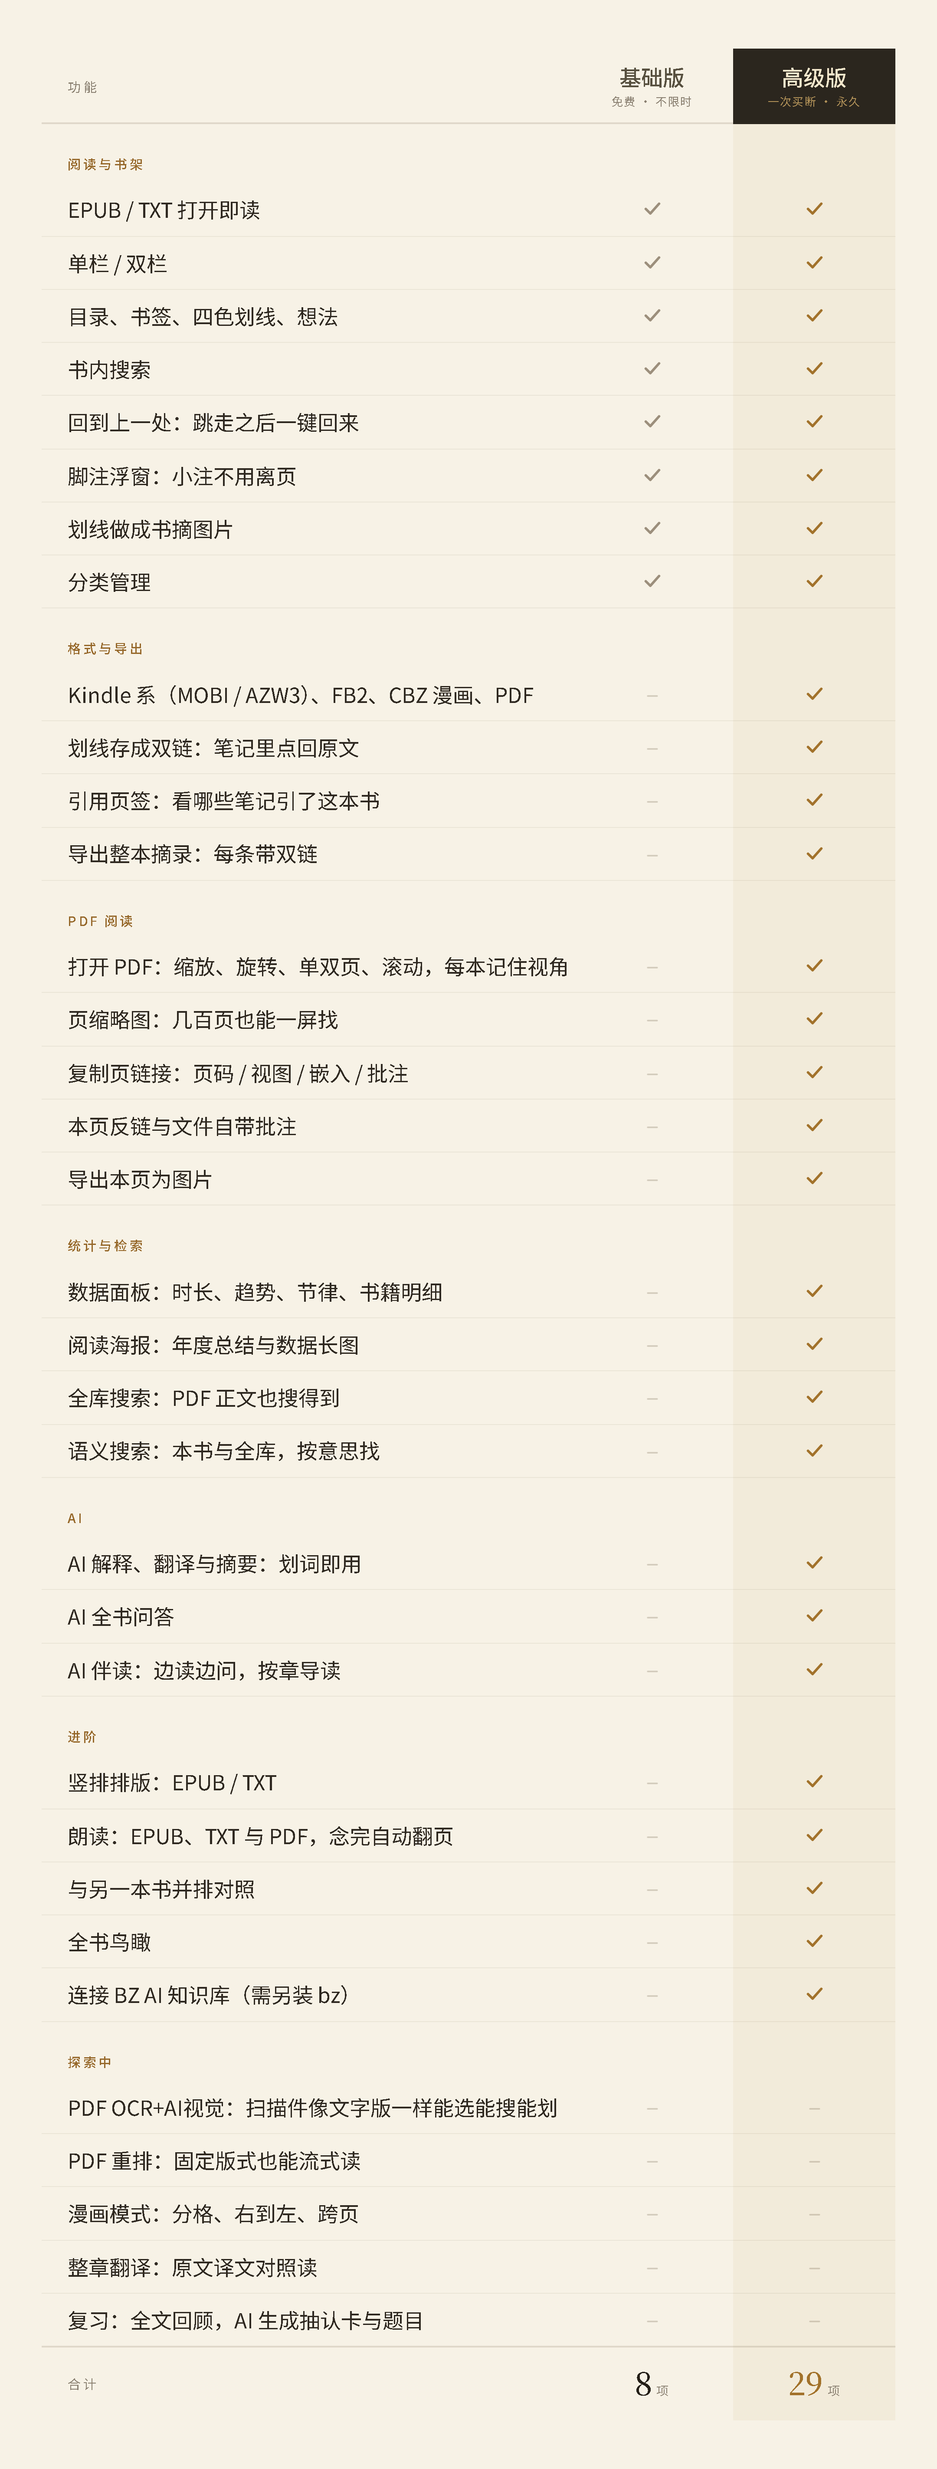
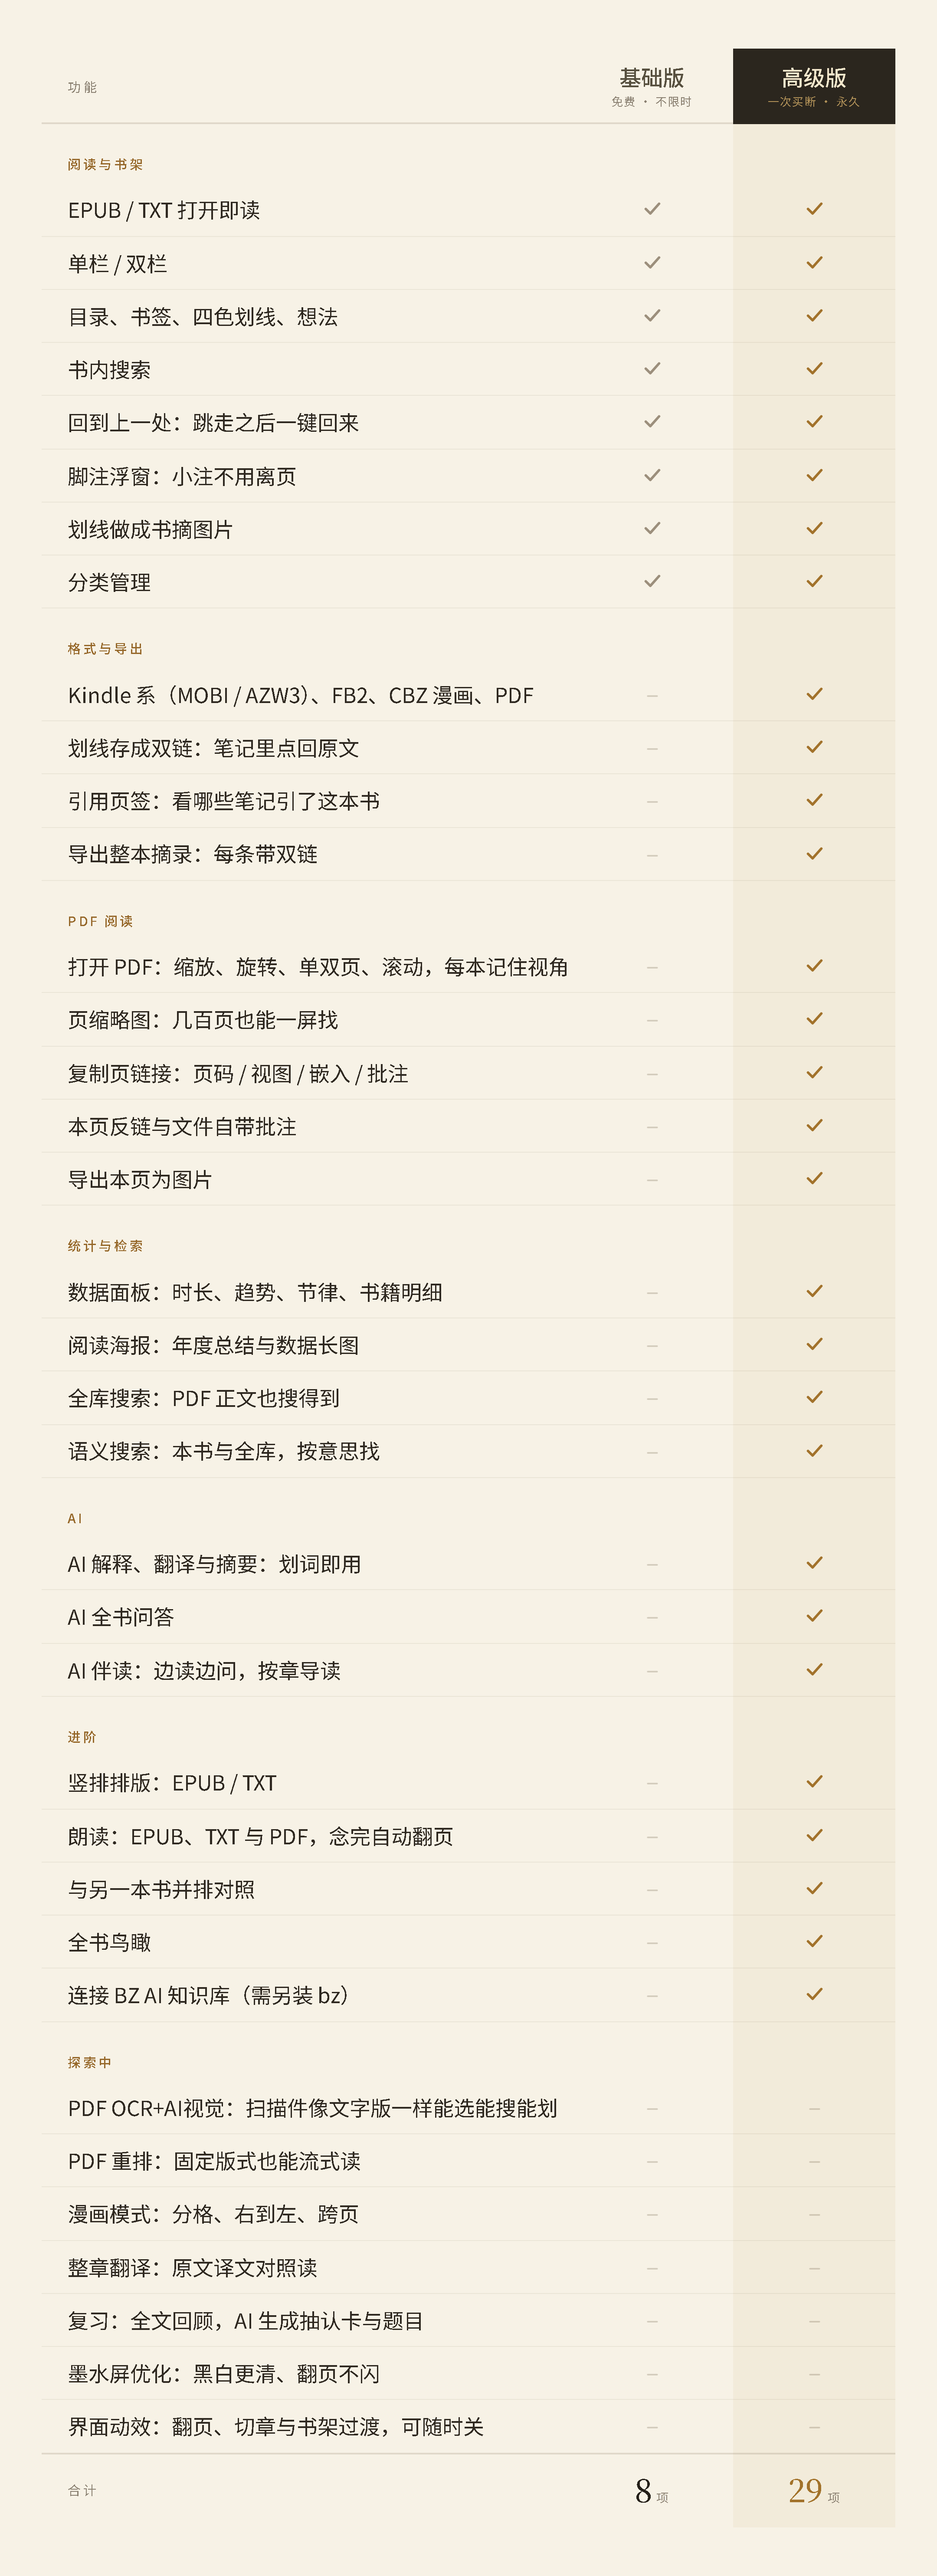
feat(plan): 探索中新增墨水屏优化与界面动效
两版都不打勾、不挂能力位，合计仍是 8 / 29，总行数 34 → 36。同步八语言行名、README 八份功能表、商店稿正在做清单与对照长图；繁中检测器去掉简繁同形的「可」，否则「可随时关」会被误判。

diff --git a/tests/plan-explore.test.ts b/tests/plan-explore.test.ts
@@ -4,24 +4,26 @@ import { LOCALES, setLocale } from '../src/i18n';
 import { PLAN_GROUP_TEXT_PACK, PLAN_TEXT_PACK, planGroupLabel, planGroupNameZh, planLabel, planNameZh } from '../src/i18n/plan';
 
 /**
- * 对照表 · 探索中段（2026-11-11）。
+ * 对照表 · 探索中段（2026-11-11，2026-11-12 增至七项）。
  *
- * 五项都还没实现、还在开发中：PDF OCR+AI 视觉把扫描件做到「像文字版」的
+ * 七项都还没实现、还在开发中：PDF OCR+AI 视觉把扫描件做到「像文字版」的
  * 选中 / 搜索 / 划线体验；PDF 重排把固定版式变成流式；漫画模式补上分格 /
  * 右到左 / 跨页；整章翻译做原文译文对照；复习支持全文回顾、AI 抽认卡与
- * AI 出题。
+ * AI 出题；墨水屏优化让黑白更清、翻页不闪；界面动效给翻页、切章与书架
+ * 过渡，且可随时关。
  *
  * 写进表里是为了让「高级版能力只增不减」有落点，但不能假装已经能用：
- *   · 五行两版都不打勾（free / pro 都是 no），也不挂能力位；
+ *   · 七行两版都不打勾（free / pro 都是 no），也不挂能力位；
  *   · 段名「探索中」说明状态，行里不再加「开发中」小字；
  *   · 不进合计——图上基础版 8 项、高级版 29 项保持不变。
  */
 
 const CJK = /[\u4e00-\u9fff]/;
 const LATIN = ['en', 'de', 'fr', 'es', 'pt'] as const;
-/** 简繁必然异形的字：繁中行名里出现任何一个就说明抄了简体 */
-const SIMPLIFIED = /[选线图复认可与题扫样页读译对]/;
-const EXPLORE_ROWS = ['pdfOcr', 'pdfReflow', 'manga', 'transChapter', 'review'] as const;
+/** 简繁必然异形的字：繁中行名里出现任何一个就说明抄了简体。
+    「可」简繁同形，列进来会把「可随时关」这种正确繁体判成错——检测器只收异形字。 */
+const SIMPLIFIED = /[选线图复认与题扫样页读译对]/;
+const EXPLORE_ROWS = ['pdfOcr', 'pdfReflow', 'manga', 'transChapter', 'review', 'eink', 'motion'] as const;
 
 afterEach(() => setLocale('zh'));
 
@@ -30,7 +32,7 @@ function row(key: string) {
 }
 
 describe('对照表 · 探索中段的位置与内容', () => {
-  it('放在最末一段，只收五行，顺序固定', () => {
+  it('放在最末一段，只收七行，顺序固定', () => {
     const last = PLAN_GROUPS.at(-1);
     expect(last?.key).toBe('explore');
     expect(last?.rows).toEqual([...EXPLORE_ROWS]);
@@ -46,12 +48,14 @@ describe('对照表 · 探索中段的位置与内容', () => {
     }
   });
 
-  it('中文行名就是图上的那五行', () => {
+  it('中文行名就是图上的那七行', () => {
     expect(planNameZh('pdfOcr')).toBe('PDF OCR+AI视觉：扫描件像文字版一样能选能搜能划');
     expect(planNameZh('pdfReflow')).toBe('PDF 重排：固定版式也能流式读');
     expect(planNameZh('manga')).toBe('漫画模式：分格、右到左、跨页');
     expect(planNameZh('transChapter')).toBe('整章翻译：原文译文对照读');
     expect(planNameZh('review')).toBe('复习：全文回顾，AI 生成抽认卡与题目');
+    expect(planNameZh('eink')).toBe('墨水屏优化：黑白更清、翻页不闪');
+    expect(planNameZh('motion')).toBe('界面动效：翻页、切章与书架过渡，可随时关');
   });
 
   it('段名叫「探索中」，且不和任何行名撞字', () => {
@@ -60,12 +64,12 @@ describe('对照表 · 探索中段的位置与内容', () => {
     expect(names.has('探索中')).toBe(false);
   });
 
-  it('探索行不计入已实现项：基础版 8、高级版 29、共 34 行的口径不变', () => {
-    /* 图上的合计只看已实现：高级版 29 个勾、基础版 8 个勾。探索五行加进
-       来之后，行数变 34，但两个合计数字一个都不能动。 */
+  it('探索行不计入已实现项：基础版 8、高级版 29、共 36 行的口径不变', () => {
+    /* 图上的合计只看已实现：高级版 29 个勾、基础版 8 个勾。探索七行加进
+       来之后，行数变 36，但两个合计数字一个都不能动。 */
     expect(PLAN_TABLE.filter((r) => r.pro === 'yes')).toHaveLength(29);
     expect(PLAN_TABLE.filter((r) => r.free === 'yes')).toHaveLength(8);
-    expect(PLAN_TABLE).toHaveLength(34);
+    expect(PLAN_TABLE).toHaveLength(36);
   });
 
   it('知识库仍是正式段的最后一行，探索段接在它后面', () => {
@@ -76,7 +80,7 @@ describe('对照表 · 探索中段的位置与内容', () => {
 });
 
 describe('对照表 · 探索中段八种语言', () => {
-  it('段名与五行都填了八种语言，没有空串', () => {
+  it('段名与七行都填了八种语言，没有空串', () => {
     for (const l of LOCALES) {
       expect(String(PLAN_GROUP_TEXT_PACK.explore[l]).trim().length, l).toBeGreaterThan(0);
       for (const key of EXPLORE_ROWS) {
@@ -108,6 +112,8 @@ describe('对照表 · 探索中段八种语言', () => {
     expect(planLabel('manga')).toContain('Manga');
     expect(planLabel('transChapter')).toContain('translation');
     expect(planLabel('review')).toContain('Review');
+    expect(planLabel('eink')).toContain('E Ink');
+    expect(planLabel('motion')).toContain('motion');
     setLocale('zh');
     expect(planGroupLabel('explore')).toBe('探索中');
   });

diff --git a/src/data/entitlement.ts b/src/data/entitlement.ts
@@ -780,19 +780,23 @@ export const PLAN_TABLE: PlanRow[] = [
      全书问答的前置步骤，拆成两行只让用户以为要买两次；建索引被拦时高亮
      的是「AI 全书问答」那一行（见 shell/actions.ts 的 indexCap）。 */
   row('kb', 'no', 'yes', 'kb'),
-  /* ── 探索中（2026-11-11） ──
-   * 五项都还没实现，只占表尾，别当已上线卖点用：两版都不打勾（free / pro
+  /* ── 探索中（2026-11-11，2026-11-12 增至七项） ──
+   * 七项都还没实现，只占表尾，别当已上线卖点用：两版都不打勾（free / pro
    * 都是 no）、不挂能力位，状态由段名「探索中」说，行里不加小字。
    * 它们不进合计——图上的基础版 8 项、高级版 29 项保持不变。
    *
    * OCR 与 AI 视觉是两条技术路线、同一个目标：让扫描件拥有文字版的选中 /
    * 搜索 / 划线体验；PDF 重排把固定版式变成流式；漫画模式补上分格 / 右到左 /
-   * 跨页；整章翻译做原文译文对照；复习是全文回顾 + AI 抽认卡 + AI 出题。 */
+   * 跨页；整章翻译做原文译文对照；复习是全文回顾 + AI 抽认卡 + AI 出题；
+   * 墨水屏优化拉高黑白对比、翻页不闪；界面动效给翻页、切章与书架切换加
+   * 过渡，且随时可关。 */
   row('pdfOcr', 'no', 'no'),
   row('pdfReflow', 'no', 'no'),
   row('manga', 'no', 'no'),
   row('transChapter', 'no', 'no'),
   row('review', 'no', 'no'),
+  row('eink', 'no', 'no'),
+  row('motion', 'no', 'no'),
 ];
 
 /**
@@ -802,7 +806,7 @@ export const PLAN_TABLE: PlanRow[] = [
  * `free === 'yes'` 与 `pro === 'yes'` 的行数。写死的话，下次加一行忘了改，
  * 弹层就会对外少报一项；这张表是用户决定要不要付钱的地方，数字得跟着表走。
  *
- * 「探索中」那五行两版都不打勾，所以天然不计入：不是特例，是同一条规则。
+ * 「探索中」那七行两版都不打勾，所以天然不计入：不是特例，是同一条规则。
  * 反过来说，哪天给探索中的某项打了勾，它会自动进合计——这正是想要的。
  */
 export function planTotals(): { free: number; pro: number } {
@@ -827,7 +831,7 @@ export function unlockModeFor(format: BookFormat): 'pdf' | 'fullFormats' {
 }
 
 /* ─────────── 对照表的分组（2026-11-09） ───────────
- * 34 行一长串看不出结构：用户从上滚到下，只记得「很多功能」，分不清哪几行
+ * 36 行一长串看不出结构：用户从上滚到下，只记得「很多功能」，分不清哪几行
  * 是一类。这里把同一批行按使用场景切成七段，渲染时插组标题——**行本身、
  * 勾叉、顺序都没变**，所以被拦时的高亮与滚动位置照旧。
  *
@@ -846,7 +850,7 @@ export function unlockModeFor(format: BookFormat): 'pdf' | 'fullFormats' {
  *   · 统计与检索：回看读了多少、把一年做成长图、找回某句话；
  *   · AI：划词与全书问答；
  *   · 进阶：排版、朗读、对照、鸟瞰，最后落在知识库；
- *   · 探索中：还没实现的五项，两版都不打勾，只作为路线图收尾。
+ *   · 探索中：还没实现的七项，两版都不打勾，只作为路线图收尾。
  * 「连接至 BZ AI 知识库」仍是正式段的最后一行（有测试钉住），探索中段
  * 接在它后面，不动它的位置。 */
 export interface PlanGroup {
@@ -880,10 +884,10 @@ export const PLAN_GROUPS: PlanGroup[] = [
     key: 'advanced',
     rows: ['vertical', 'tts', 'parallel', 'bookmap', 'kb'],
   },
-  /* 2026-11-11 新增：探索中。放最后一段，只收五项还没实现的功能，
+  /* 2026-11-11 新增：探索中。放最后一段，只收七项还没实现的功能，
      两版都不打勾，所以它不参与「被拦时高亮」那一套。 */
   {
     key: 'explore',
-    rows: ['pdfOcr', 'pdfReflow', 'manga', 'transChapter', 'review'],
+    rows: ['pdfOcr', 'pdfReflow', 'manga', 'transChapter', 'review', 'eink', 'motion'],
   },
 ];

diff --git a/src/i18n/plan.ts b/src/i18n/plan.ts
@@ -50,12 +50,15 @@ export type PlanKey =
   | 'parallel'
   | 'bookmap'
   | 'kb'
-  /* 探索中（2026-11-11）：五项都还没实现，先占表尾五行；行内不标状态，靠段名说。 */
+  /* 探索中（2026-11-11，2026-11-12 增至七项）：都还没实现，先占表尾七行；
+     行内不标状态，靠段名说。 */
   | 'pdfOcr'
   | 'pdfReflow'
   | 'manga'
   | 'transChapter'
-  | 'review';
+  | 'review'
+  | 'eink'
+  | 'motion';
 
 /**
  * 分组 id。和 `PlanKey` 是**两套命名空间**：这里是「段」，那里是「行」。
@@ -399,14 +402,15 @@ const PLAN_TEXT: Record<PlanKey, Record<Locale, string>> = {
     es: 'Conectar con la base de conocimiento BZ AI (requiere bz)',
     pt: 'Conectar à base de conhecimento BZ AI (requer bz)',
   },
-  /* ── 探索中（2026-11-11） ──
-   * 五项都还没实现，先占表尾五行。行里不写「开发中」——状态由段名说，
+  /* ── 探索中（2026-11-11，2026-11-12 增至七项） ──
+   * 七项都还没实现，先占表尾七行。行里不写「开发中」——状态由段名说，
    * 两版都不打勾，也不挂能力位。
    *
    * OCR 与 AI 视觉是两条技术路线、同一个目标：让扫描件拥有文字版的
    * 选中 / 搜索 / 划线体验；PDF 重排把固定版式变成流式；漫画模式补上
    * 分格 / 右到左 / 跨页；整章翻译做原文译文对照；复习是全文回顾 +
-   * AI 抽认卡 + AI 出题。
+   * AI 抽认卡 + AI 出题；墨水屏优化把黑白对比拉高、翻页不闪；界面动效
+   * 给翻页、切章与书架切换加过渡，且随时可关。
    *
    * 八语言按日常开发规矩：zh / en 写实，其余六包占位（ja/de/fr/es/pt 放
    * 英文原文、zh-TW 放繁体）。准备上架那一版再统一补正式翻译。 */
@@ -459,6 +463,26 @@ const PLAN_TEXT: Record<PlanKey, Record<Locale, string>> = {
     fr: 'Review: reread in full, with AI flashcards and quizzes',
     es: 'Review: reread in full, with AI flashcards and quizzes',
     pt: 'Review: reread in full, with AI flashcards and quizzes',
+  },
+  eink: {
+    zh: '墨水屏优化：黑白更清、翻页不闪',
+    'zh-TW': '墨水屏優化：黑白更清、翻頁不閃',
+    en: 'E Ink optimization: crisper black and white, no page-turn flashing',
+    ja: 'E Ink optimization: crisper black and white, no page-turn flashing',
+    de: 'E Ink optimization: crisper black and white, no page-turn flashing',
+    fr: 'E Ink optimization: crisper black and white, no page-turn flashing',
+    es: 'E Ink optimization: crisper black and white, no page-turn flashing',
+    pt: 'E Ink optimization: crisper black and white, no page-turn flashing',
+  },
+  motion: {
+    zh: '界面动效：翻页、切章与书架过渡，可随时关',
+    'zh-TW': '介面動效：翻頁、切章與書架過渡，可隨時關',
+    en: 'Interface motion: page turns, chapter changes and shelf transitions, can be turned off',
+    ja: 'Interface motion: page turns, chapter changes and shelf transitions, can be turned off',
+    de: 'Interface motion: page turns, chapter changes and shelf transitions, can be turned off',
+    fr: 'Interface motion: page turns, chapter changes and shelf transitions, can be turned off',
+    es: 'Interface motion: page turns, chapter changes and shelf transitions, can be turned off',
+    pt: 'Interface motion: page turns, chapter changes and shelf transitions, can be turned off',
   },
 };
 

diff --git a/tests/plan-totals.test.ts b/tests/plan-totals.test.ts
@@ -7,7 +7,7 @@ import { describe, expect, it } from 'vitest';
  * 加一行忘了改，弹层就会对外少报一项——这张表是用户决定要不要付钱的
  * 地方，数字必须跟着表走。
  *
- * 「探索中」那五行两版都不打勾，所以天然不计入：不是特例，是同一条规则。
+ * 「探索中」那七行两版都不打勾，所以天然不计入：不是特例，是同一条规则。
  */
 
 import { PLAN_GROUPS, PLAN_TABLE, planTotals } from '../src/data/entitlement';
@@ -21,15 +21,15 @@ describe('对照表合计', () => {
     const t = planTotals();
     expect(t.free).toBe(PLAN_TABLE.filter((r) => r.free === 'yes').length);
     expect(t.pro).toBe(PLAN_TABLE.filter((r) => r.pro === 'yes').length);
-    /* 目前有五行两版都不打勾；把它们算进去就会变成 34 */
+    /* 目前有七行两版都不打勾；把它们算进去就会变成 36 */
     expect(t.pro).toBeLessThan(PLAN_TABLE.length);
-    expect(PLAN_TABLE.length - t.pro).toBe(5);
+    expect(PLAN_TABLE.length - t.pro).toBe(7);
   });
 
-  it('探索中的五行两边都不打勾，所以不进合计', () => {
+  it('探索中的七行两边都不打勾，所以不进合计', () => {
     const explore = new Set(PLAN_GROUPS.find((g) => g.key === 'explore')?.rows ?? []);
     const rows = PLAN_TABLE.filter((r) => explore.has(r.key));
-    expect(rows.length).toBe(5);
+    expect(rows.length).toBe(7);
     for (const r of rows) {
       expect(r.free, r.key).toBe('no');
       expect(r.pro, r.key).toBe('no');

diff --git a/src/shell/styles/overlay.css b/src/shell/styles/overlay.css
@@ -1783,7 +1783,7 @@ textarea.idea:focus {
 
 /* ── 功能对照表（2026-11-11 照商店详情那张长图重做） ──
    版式与 `docs/images/plan-compare.png` 同源：表头两行（列名 + 副标）、
-   高级版整列淡底、勾分色、底部合计。行与勾叉仍是 PLAN_TABLE 那 34 行。
+   高级版整列淡底、勾分色、底部合计。行与勾叉仍是 PLAN_TABLE 那 36 行。
 
    列宽用同一个变量，不再逐行按内容算：两列勾位必须逐行对齐，整列底色
    才能连成一条——以前用 max-content，中文看着齐，换成德语就歪。 */
@@ -1794,7 +1794,7 @@ textarea.idea:focus {
   align-items: stretch;
 }
 
-/* 表头常驻：34 行要滚两屏，滚到「探索中」那一段也得知道哪列是哪版。
+/* 表头常驻：36 行要滚两屏，滚到「探索中」那一段也得知道哪列是哪版。
    底色必须不透明，才遮得住从下面滑过去的行（见 .bzs-modal.unlock 把
    正文的 padding-top 收掉，表头才贴得住标题栏）。 */
 .bzs-plan-head {

diff --git a/src/shell/overlay.ts b/src/shell/overlay.ts
@@ -993,7 +993,7 @@ export function overlayUnlock(mode?: string, codeOpen = false): string {
     return group + body;
   }).join('');
 
-  /* 表头是常驻的（样式里 sticky，见 overlay.css）：34 行要滚两屏，
+  /* 表头是常驻的（样式里 sticky，见 overlay.css）：36 行要滚两屏，
      滚到「探索中」那一段还得知道哪一列是哪版。副标跟商店页同一口径——
      「免费不限时」和「一次买断永久」正是商品详情里写的那两句。 */
   const planHead = `<div class="bzs-plan-head">

diff --git a/docs/afdian-store.md b/docs/afdian-store.md
@@ -95,6 +95,8 @@ EPUB / TXT 阅读、翻页与排版、目录、书签、四色划线、想法、
 · 漫画模式：分格、右到左、跨页
 · 整章翻译：原文译文对照读
 · 复习：全文回顾，AI 生成抽认卡与题目
+· 墨水屏优化：黑白更清、翻页不闪
+· 界面动效：翻页、切章与书架过渡，可随时关
 以上功能还在开发中，上线后免费升级，不用再付一次钱。
 
 【一点说明】
